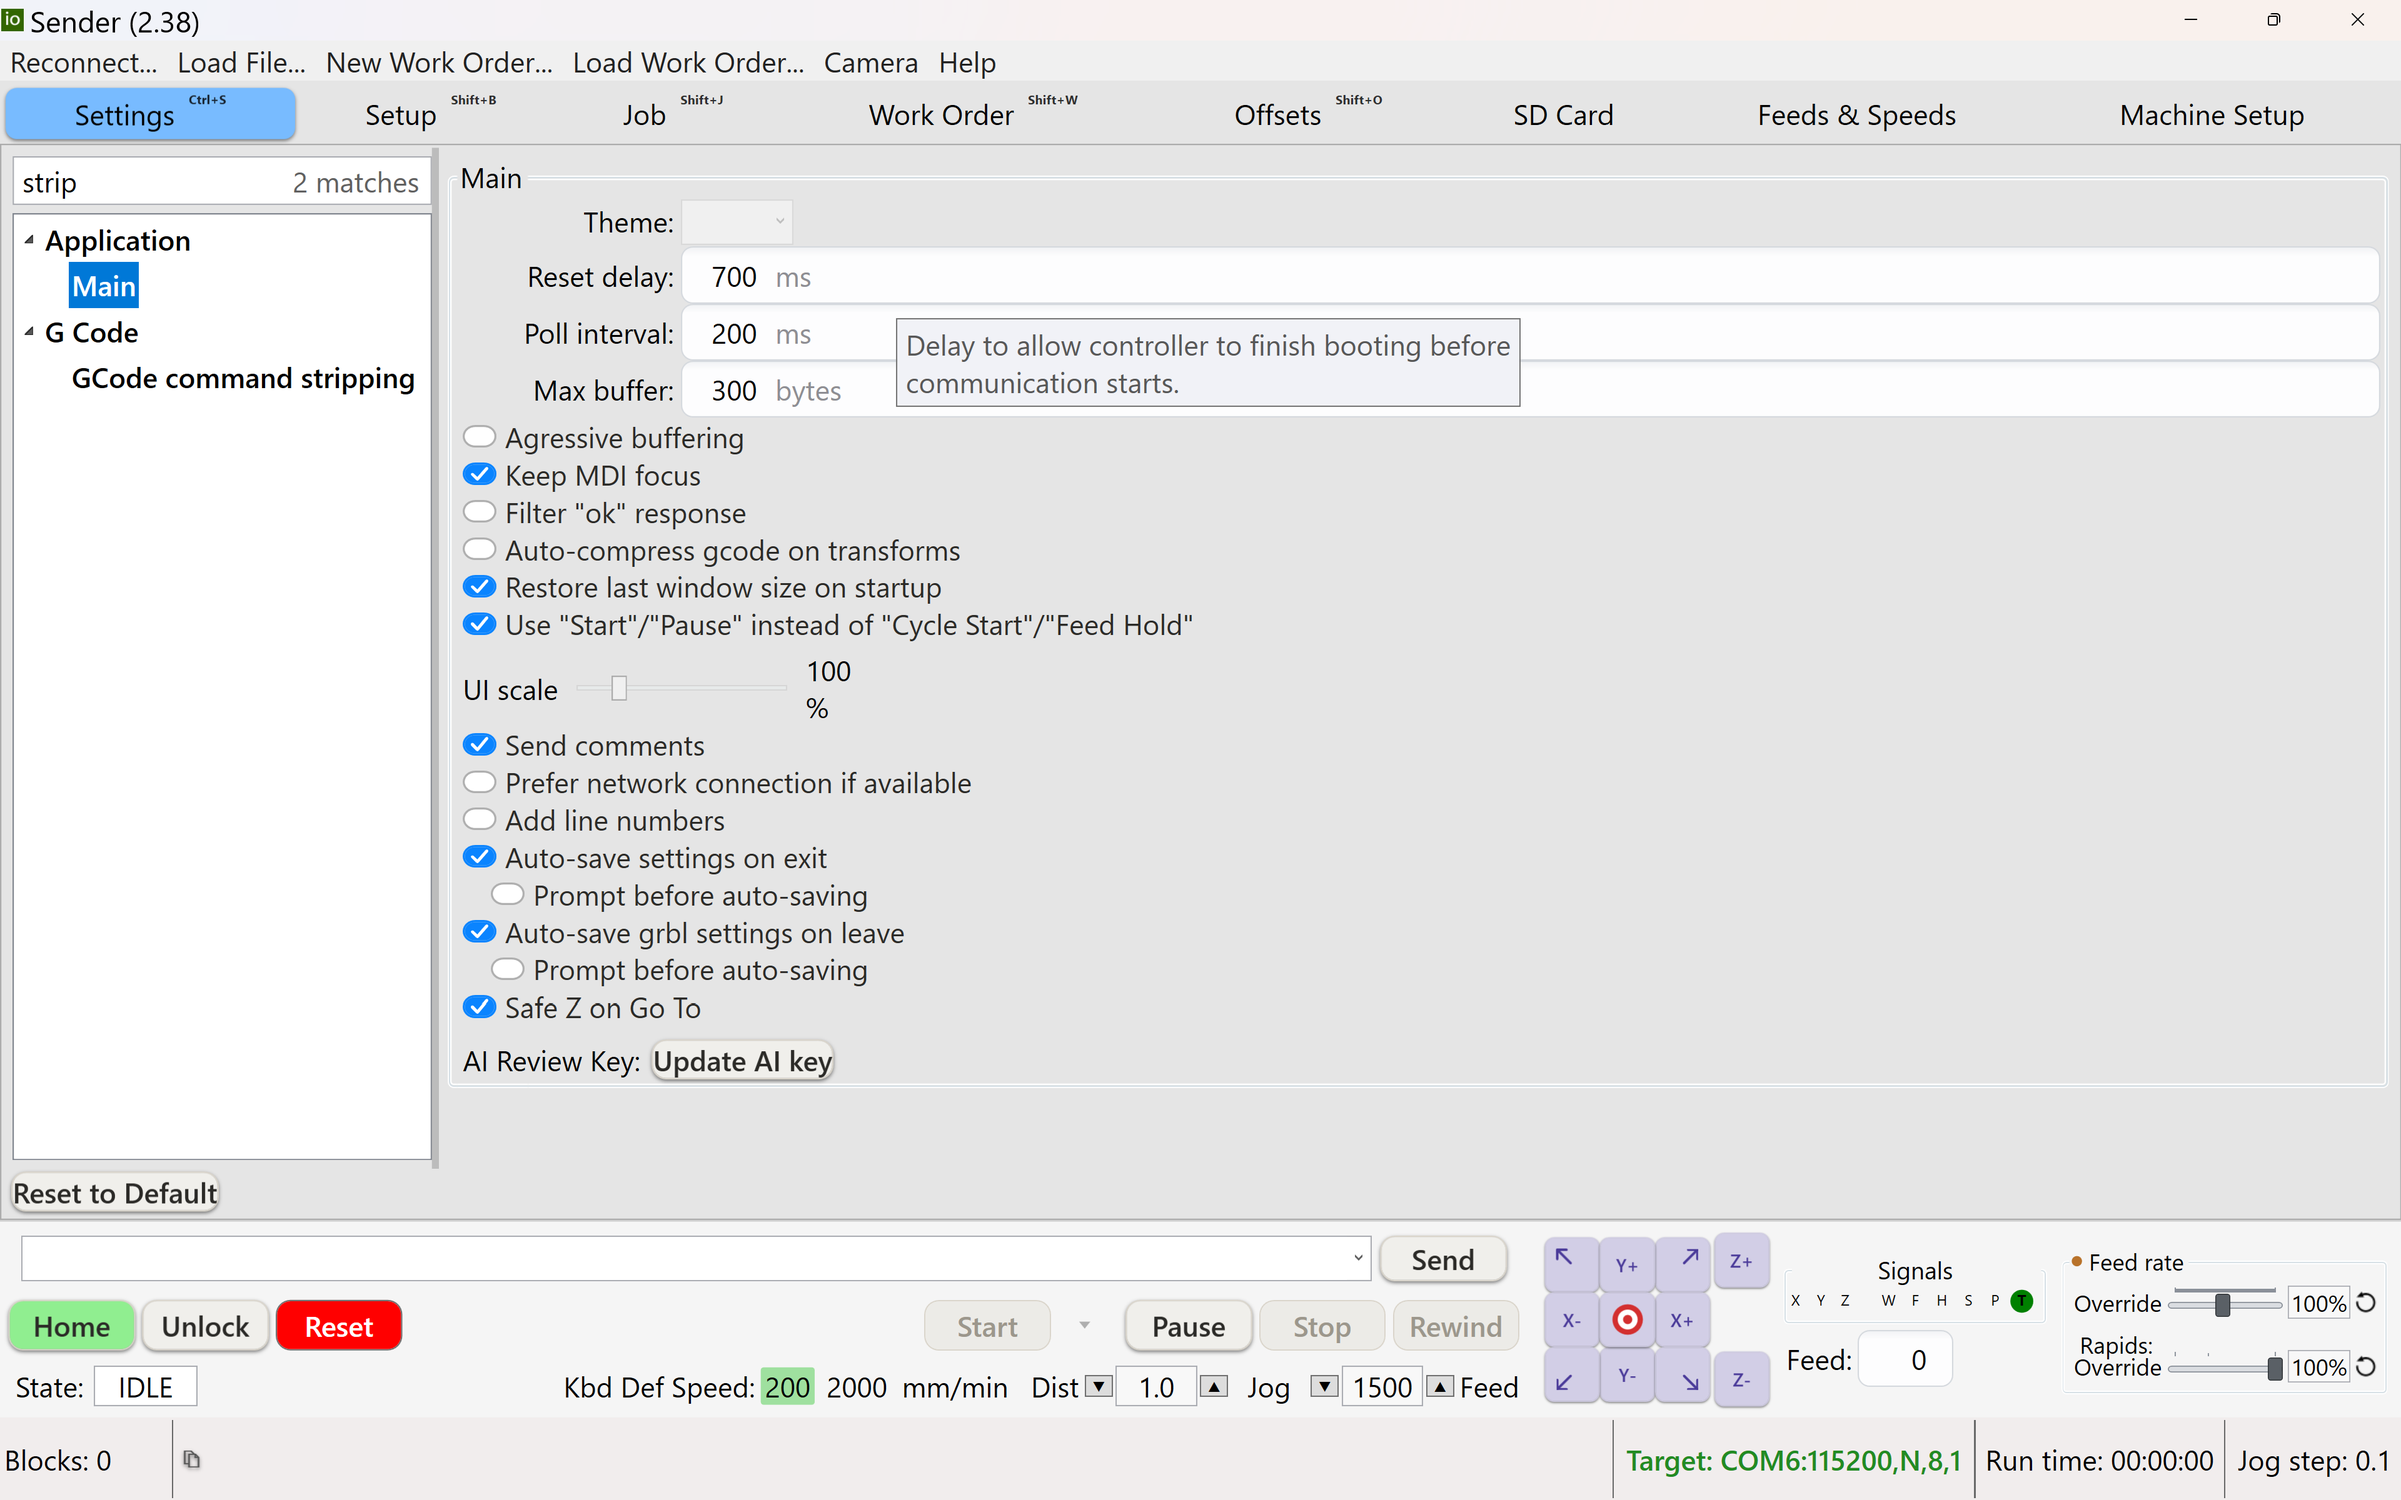
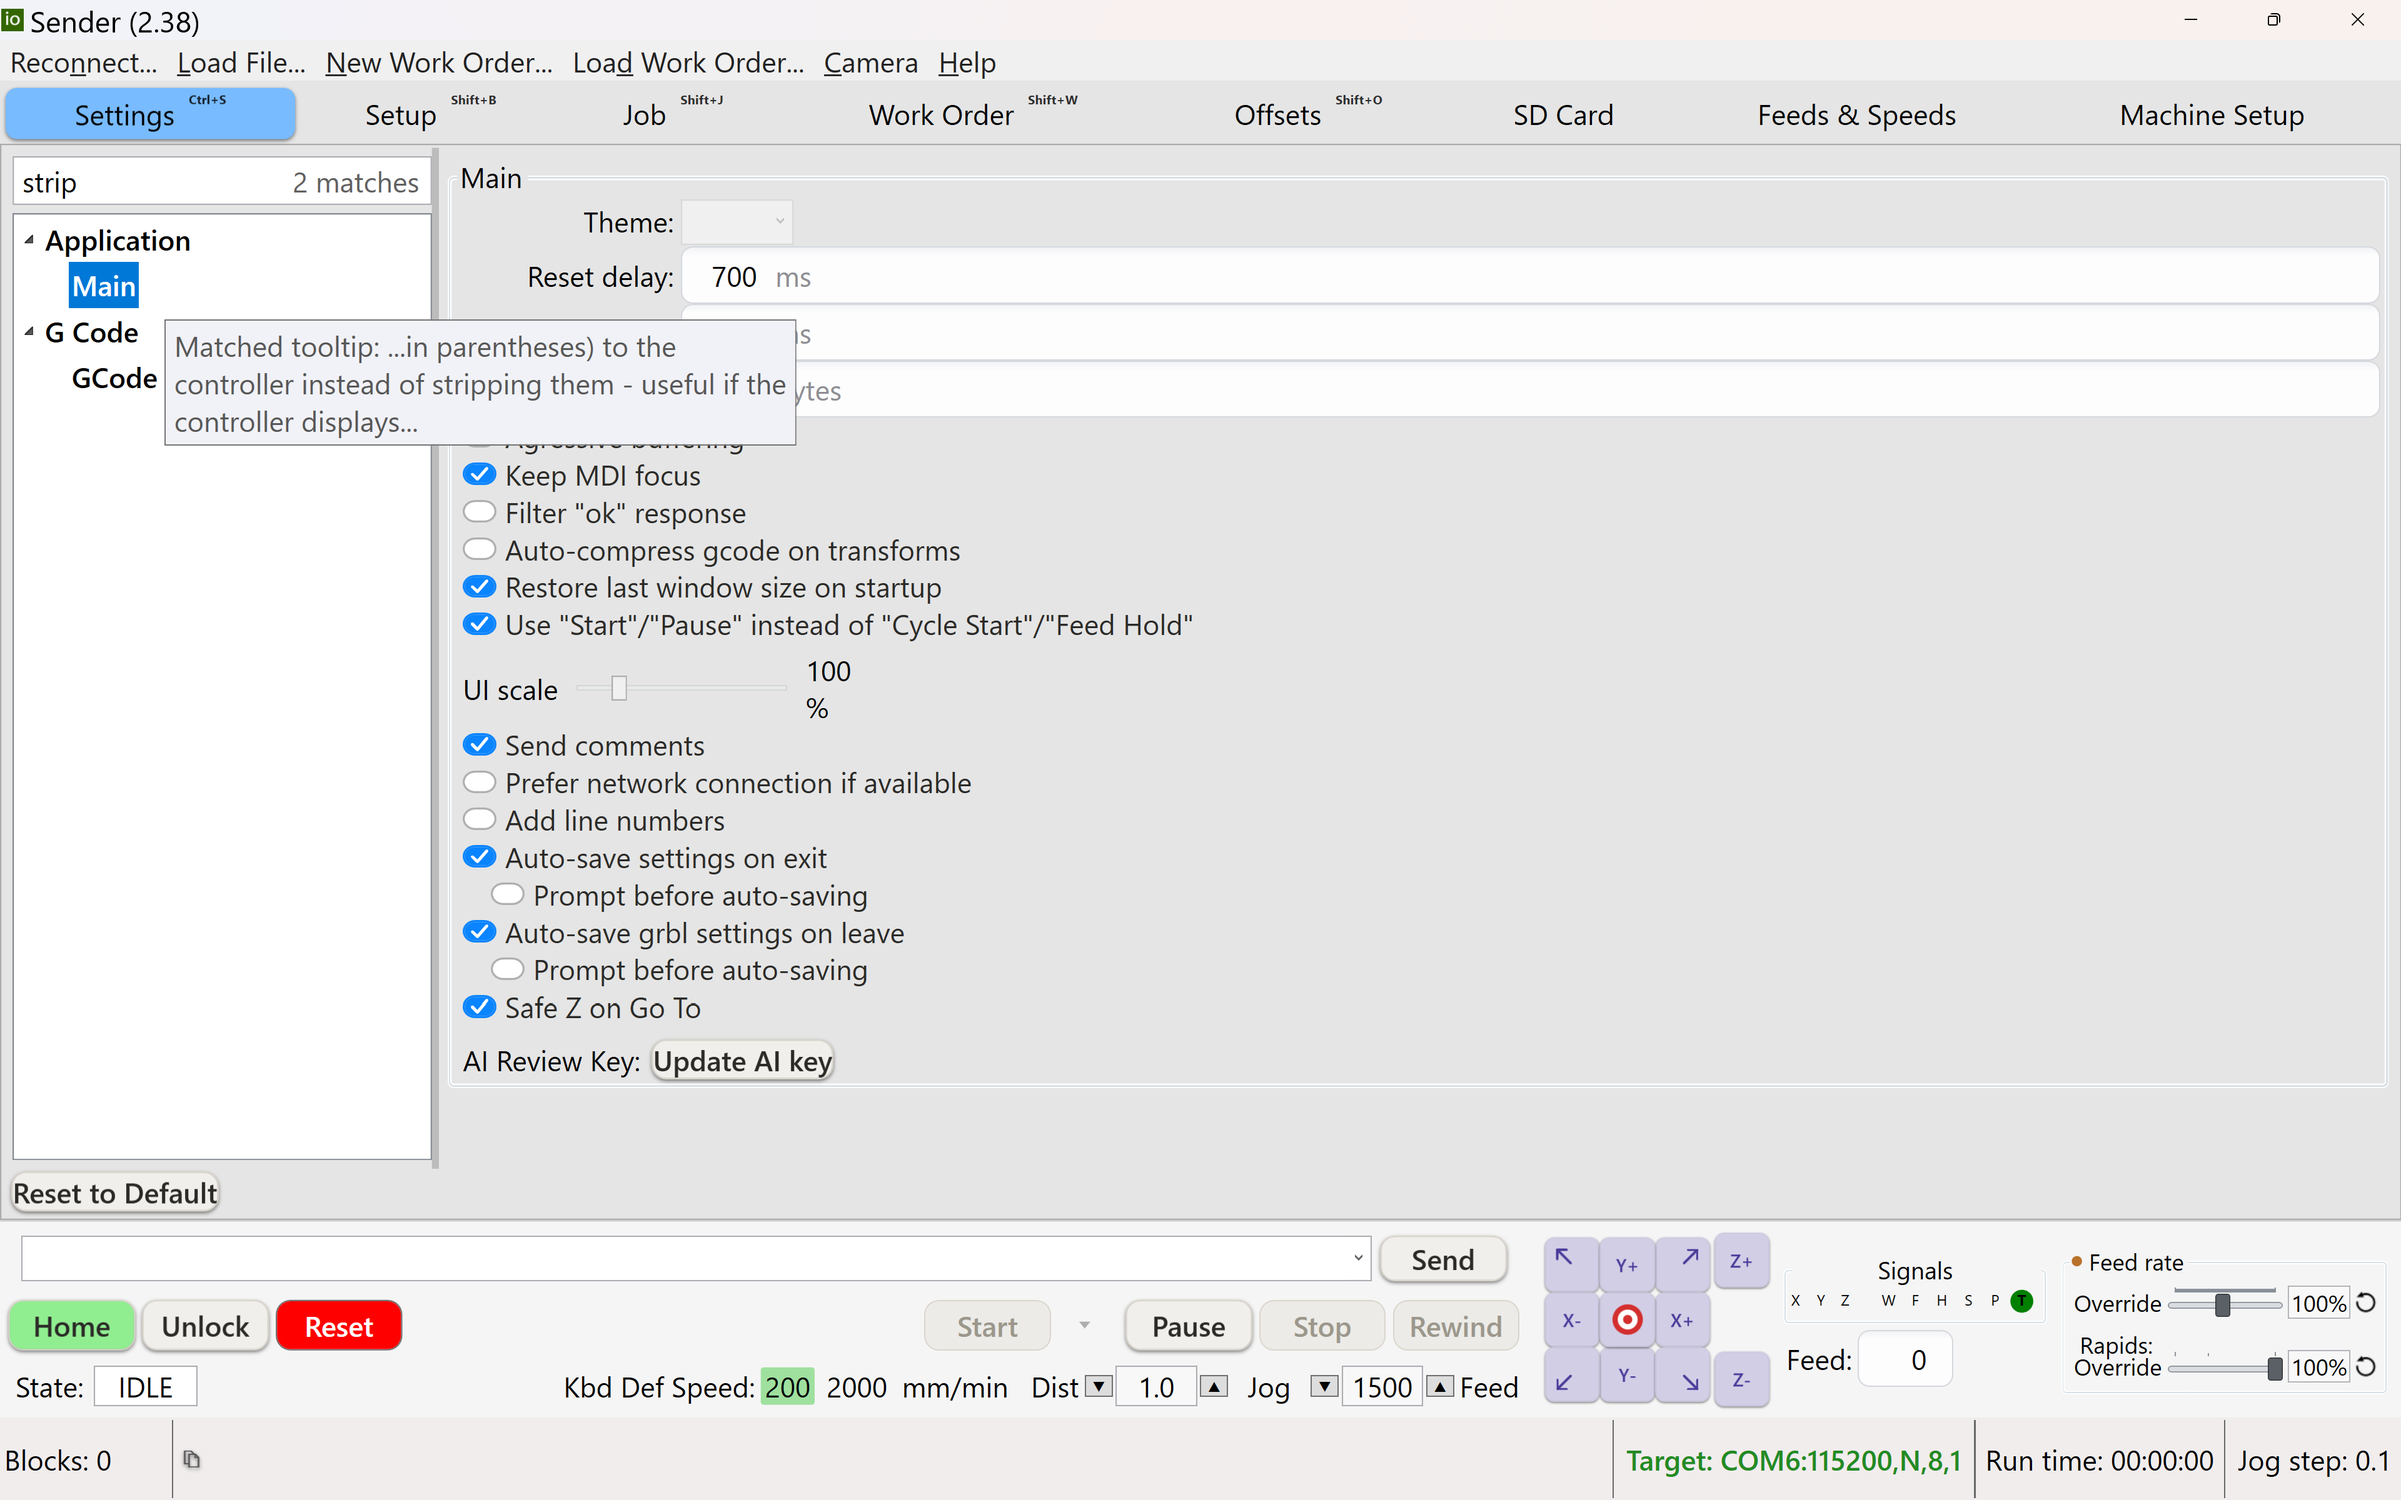
Manual: settings-search.png now shows the match explainer itself
Reshot with the tooltip up on the matched entry, so the shot carries the
whole story: "strip" -> 2 matches -> Main matched on words that are not
on the page -> "Matched tooltip: ...instead of stripping them...".

The hover target is the label specifically - the tooltip is bound to the
StackPanel holding the dot and text, not the full row - so the callout
says label rather than entry.

Changed region(s): [[0.0625, 0.2188, 0.3438, 0.3125], [0.375, 0.2188, 0.625, 0.2812]]

diff --git a/docs/manual/index.html b/docs/manual/index.html
@@ -1307,18 +1307,19 @@
       <tr><td><strong>User Interface</strong></td><td><strong>Keyboard</strong> and <strong>Controller</strong> (game-controller bindings), <strong>Macros</strong>, <strong>Job tab layout</strong>, and <strong>Top-level tabs</strong>.</td></tr>
     </table>
     <figure>
-      <img src="img/settings-search.png" alt="The Settings search filtered to two matches for the term strip">
+      <img src="img/settings-search.png" alt="The Settings search filtered to two matches for the term strip, with the Matched tooltip explainer hovering over the Main entry">
       <figcaption>Searching the words on every page, not just page names — "strip" narrows twenty-odd pages
       to <strong>2 matches</strong>. One is the obvious <em>GCode command stripping</em>; the other is
-      <em>Main</em>, where the word appears nowhere on the page at all.</figcaption>
+      <em>Main</em>, where the word appears nowhere on the page. Hovering it explains why:
+      <em>Matched tooltip: …instead of stripping them…</em></figcaption>
     </figure>
 
     <div class="callout tip"><span class="k">A match you can't see on the page</span><br>
       A lot of ioSender's useful text lives in tooltips, so search will sometimes land you on a page where
       nothing visible matches what you typed — exactly what <em>Main</em> does in the shot above.
-      <strong>Hover the matched entry in the tree</strong> and it tells you why it matched: <em>Matched
-      text: …</em> or <em>Matched tooltip: …</em>, quoting the words it actually hit. A correct match never
-      has to read as a wrong one.</div>
+      <strong>Hover the matched entry's label in the tree</strong> and it tells you why it matched:
+      <em>Matched text: …</em> or <em>Matched tooltip: …</em>, quoting the words it actually hit. A correct
+      match never has to read as a wrong one.</div>
 
     <div class="callout note"><span class="k">Why the Grbl page keeps its own tree</span><br>
       Inside the <strong>Grbl</strong> page you still get the familiar group tree and <code>$</code>-search —
